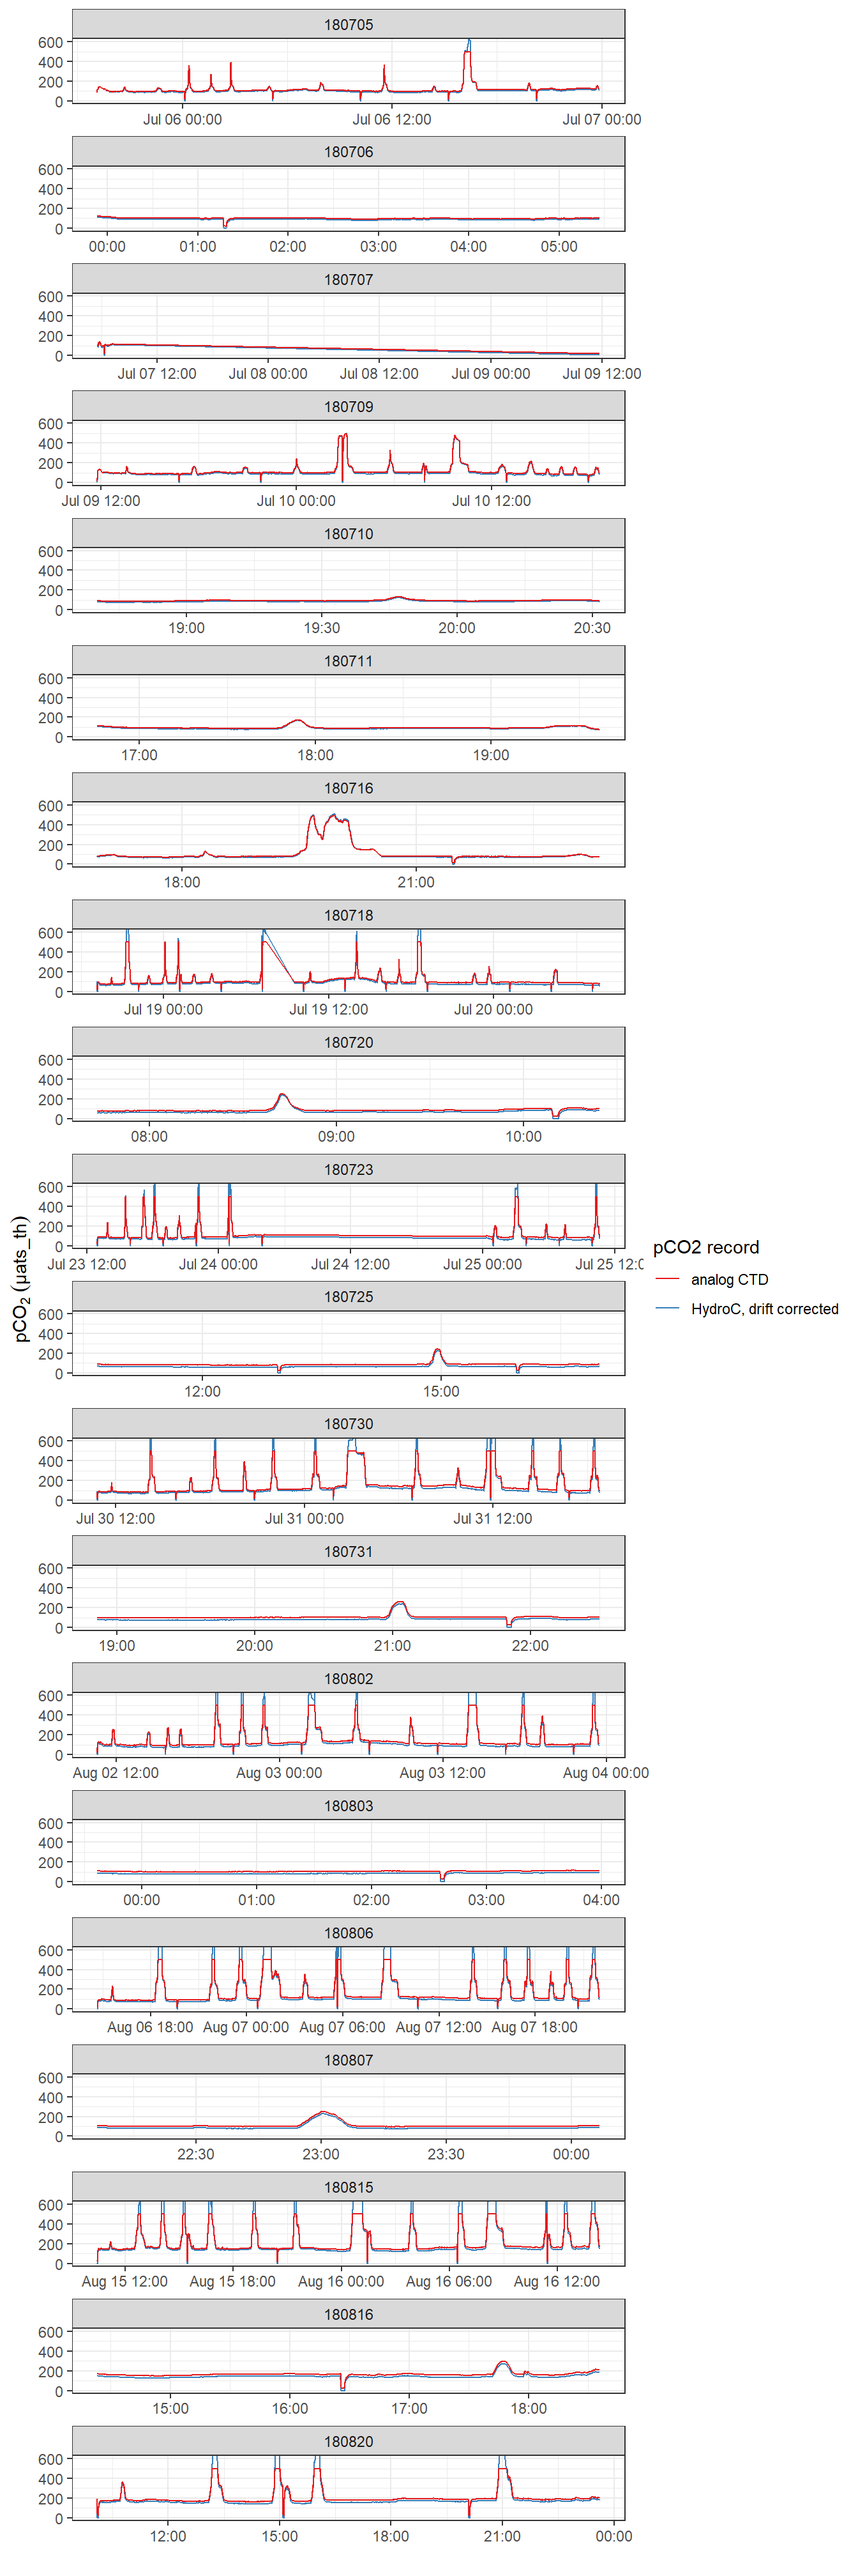
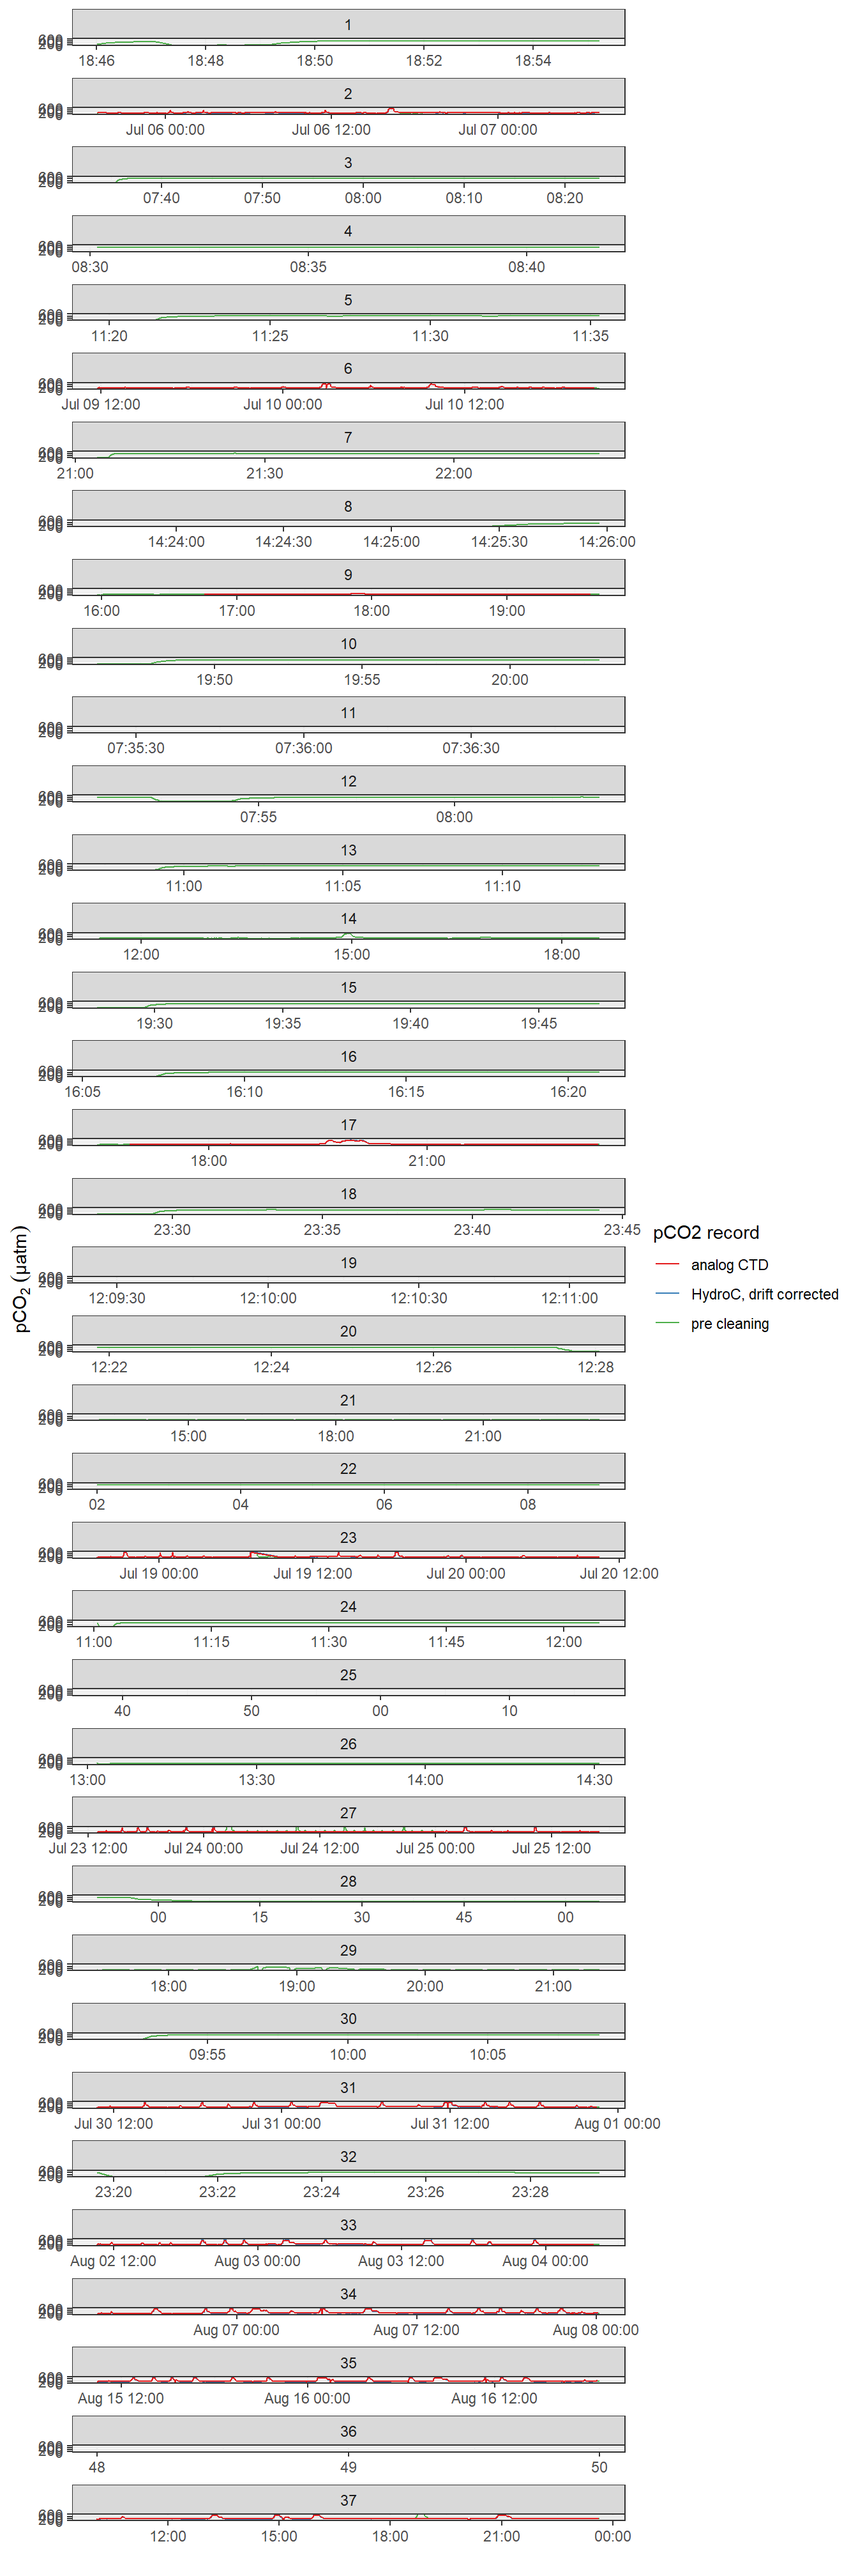
Build site.

diff --git a/docs/merging_interpolation.html b/docs/merging_interpolation.html
@@ -433,7 +433,7 @@ div.tocify {
 
 <h1 class="title toc-ignore">Merging and interpolation of observations</h1>
 <h4 class="author">Jens Daniel Müller</h4>
-<h4 class="date">23 September, 2020</h4>
+<h4 class="date">25 September, 2020</h4>
 
 </div>
 
@@ -458,7 +458,7 @@ div.tocify {
 <div class="tab-content">
 <div id="summary" class="tab-pane fade in active">
 <p>
-<strong>Last updated:</strong> 2020-09-23
+<strong>Last updated:</strong> 2020-09-25
 </p>
 <p>
 <strong>Checks:</strong> <span class="glyphicon glyphicon-ok text-success" aria-hidden="true"></span> 7 <span class="glyphicon glyphicon-exclamation-sign text-danger" aria-hidden="true"></span> 0
@@ -549,16 +549,16 @@ This reproducible <a href="http://rmarkdown.rstudio.com">R Markdown</a> analysis
 <div class="panel panel-default">
 <div class="panel-heading">
 <p class="panel-title">
-<a data-toggle="collapse" data-parent="#workflowr-checks" href="#strongRepositoryversionstrongahrefhttpsgithubcomjensdanielmuellerBloomSailtree7f497e4509336ea5dcb323af87fa128da897d9edtargetblank7f497e4a"> <span class="glyphicon glyphicon-ok text-success" aria-hidden="true"></span> <strong>Repository version:</strong> <a href="https://github.com/jens-daniel-mueller/BloomSail/tree/7f497e4509336ea5dcb323af87fa128da897d9ed" target="_blank">7f497e4</a> </a>
+<a data-toggle="collapse" data-parent="#workflowr-checks" href="#strongRepositoryversionstrongahrefhttpsgithubcomjensdanielmuellerBloomSailtreeabc5bacf54cde8073792bba75eafb3c09a6b801ctargetblankabc5baca"> <span class="glyphicon glyphicon-ok text-success" aria-hidden="true"></span> <strong>Repository version:</strong> <a href="https://github.com/jens-daniel-mueller/BloomSail/tree/abc5bacf54cde8073792bba75eafb3c09a6b801c" target="_blank">abc5bac</a> </a>
 </p>
 </div>
[2 lines of base64/hex data omitted]
 <div class="panel-body">
 <p>
 Great! You are using Git for version control. Tracking code development and connecting the code version to the results is critical for reproducibility.
 </p>
 <p>
-The results in this page were generated with repository version <a href="https://github.com/jens-daniel-mueller/BloomSail/tree/7f497e4509336ea5dcb323af87fa128da897d9ed" target="_blank">7f497e4</a>. See the <em>Past versions</em> tab to see a history of the changes made to the R Markdown and HTML files.
+The results in this page were generated with repository version <a href="https://github.com/jens-daniel-mueller/BloomSail/tree/abc5bacf54cde8073792bba75eafb3c09a6b801c" target="_blank">abc5bac</a>. See the <em>Past versions</em> tab to see a history of the changes made to the R Markdown and HTML files.
 </p>
 <p>
 Note that you need to be careful to ensure that all relevant files for the analysis have been committed to Git prior to generating the results (you can use <code>wflow_publish</code> or <code>wflow_git_commit</code>). workflowr only checks the R Markdown file, but you know if there are other scripts or data files that it depends on. Below is the status of the Git repository when the results were generated:
@@ -575,12 +575,12 @@ Ignored files:
     Ignored:    data/_merged_data_files/
     Ignored:    data/_summarized_data_files/
     Ignored:    data/backup/
+    Ignored:    output/Plots/Figures_publication/.tmp.drivedownload/
 
 Untracked files:
     Untracked:  code/Vertical entrainment flux I.pdf
     Untracked:  code/Vertical entrainment flux II.pdf
     Untracked:  code/Vertical entrainment flux III.pdf
-    Untracked:  output/Plots/Figures_publication/.tmp.drivedownload/
     Untracked:  output/Plots/Figures_publication/Appendix/Phytoplankton_mean_total_biomass.png
     Untracked:  output/Plots/Figures_publication/Appendix/TPD_CPD_cumulative.png
     Untracked:  output/Plots/Figures_publication/Appendix/pCO2_RT_corrected_profile_example.png
@@ -596,9 +596,12 @@ Untracked files:
     Untracked:  output/Plots/Figures_publication/Article/station_map.png
 
 Unstaged changes:
+    Modified:   analysis/read-in.Rmd
     Modified:   output/Plots/CT_dynamics/tm_profiles_ID_pCO2_tem_sal_CT.pdf
     Modified:   output/Plots/Figures_publication/Appendix/Phytoplankton_mean_total_biomass.pdf
     Modified:   output/Plots/Figures_publication/Appendix/TPD_CPD_cumulative.pdf
+    Modified:   output/Plots/Figures_publication/Appendix/pCO2_RT_corrected_profile_example.pdf
+    Modified:   output/Plots/Figures_publication/Appendix/pCO2_RT_corrected_profile_mean_abs_offset.pdf
     Modified:   output/Plots/Figures_publication/Appendix/tau_fit_example.pdf
     Modified:   output/Plots/Figures_publication/Appendix/tb_profiles.pdf
     Modified:   output/Plots/Figures_publication/Article/Hov_abs_profiles_cum.pdf
@@ -608,6 +611,7 @@ Unstaged changes:
     Modified:   output/Plots/Figures_publication/Article/reconstruction_NCP_timeseries.pdf
     Modified:   output/Plots/Figures_publication/Article/reconstruction_iCT_timeseries.pdf
     Modified:   output/Plots/Figures_publication/Article/station_map.pdf
+    Modified:   output/Plots/merging_interpolation/Zero_time_synchronization.pdf
 
 </code></pre>
 <p>
@@ -646,6 +650,40 @@ Message
 </tr>
 </thead>
 <tbody>
+<tr>
+<td>
+Rmd
+</td>
+<td>
+<a href="https://github.com/jens-daniel-mueller/BloomSail/blob/abc5bacf54cde8073792bba75eafb3c09a6b801c/analysis/merging_interpolation.Rmd" target="_blank">abc5bac</a>
+</td>
+<td>
+jens-daniel-mueller
+</td>
+<td>
+2020-09-25
+</td>
+<td>
+comparison of pCO2 data included
+</td>
+</tr>
+<tr>
+<td>
+html
+</td>
+<td>
+<a href="https://rawcdn.githack.com/jens-daniel-mueller/BloomSail/904f0f7018fb3a343a6b8315520625c8d1c05951/docs/merging_interpolation.html" target="_blank">904f0f7</a>
+</td>
+<td>
+jens-daniel-mueller
+</td>
+<td>
+2020-09-23
+</td>
+<td>
+Build site.
+</td>
+</tr>
 <tr>
 <td>
 Rmd
@@ -1923,11 +1961,14 @@ th_new_withoutAW &lt;-
                           &quot;pCO2_corr&quot;, &quot;Runtime&quot;, &quot;nr.ave&quot;)) %&gt;% 
   mutate(date_time = dmy_hms(date_time),
          Flush = as.factor(as.character(Flush)),
-         Zero = as.factor(as.character(Zero)))</code></pre>
-</div>
-<div id="absolute-values" class="section level3">
-<h3><span class="header-section-number">1.4.2</span> Absolute values</h3>
-<pre class="r"><code>ts_th &lt;- read_csv(here::here(&quot;data/_merged_data_files/merging_interpolation&quot;,
+         Zero = as.factor(as.character(Zero)))
+
+th_all_data &lt;- read_csv(here::here(&quot;Data/_summarized_data_files&quot;,
+                          &quot;th_all_data.csv&quot;))
+
+
+
+ts_th &lt;- read_csv(here::here(&quot;data/_merged_data_files/merging_interpolation&quot;,
                           &quot;ts_th.csv&quot;),
                col_types = cols(ID = col_character(),
                                 pCO2_analog = col_double(),
@@ -1937,24 +1978,29 @@ th_new_withoutAW &lt;-
                                 Zero_counter = col_integer(),
                                 deployment = col_integer(),
                                 duration = col_double(),
-                                mixing = col_character()))
-
-
-ts_th %&gt;% 
-  filter(!is.na(pCO2_corr)) %&gt;% 
-  ggplot()+
-  geom_path(aes(date_time, pCO2_corr, col = &quot;HydroC, drift corrected&quot;))+
-  geom_path(aes(date_time, pCO2_analog, col = &quot;analog CTD&quot;))+
+                                mixing = col_character()))</code></pre>
+</div>
+<div id="comparison-of-preliminary-pco2-data" class="section level3">
+<h3><span class="header-section-number">1.4.2</span> Comparison of preliminary pCO2 data</h3>
+<div id="analog-vs-internal" class="section level4">
+<h4><span class="header-section-number">1.4.2.1</span> Analog vs internal</h4>
+<pre class="r"><code>ggplot()+
+  geom_path(data = th_all_data, aes(date_time, pCO2_corr, col = &quot;pre cleaning&quot;))+
+  geom_path(data = ts_th, aes(date_time, pCO2_corr, col = &quot;HydroC, drift corrected&quot;))+
+  geom_path(data = ts_th, aes(date_time, pCO2_analog, col = &quot;analog CTD&quot;))+
   scale_color_brewer(palette = &quot;Set1&quot;, name = &quot;pCO2 record&quot;)+
   coord_cartesian(ylim = c(0,600))+
-  labs(y=expression(pCO[2]~(µats_th)), x=&quot;&quot;)+
-  facet_wrap(~ID, scales = &quot;free_x&quot;, ncol = 1)</code></pre>
+  labs(y=expression(pCO[2]~(µatm)), x=&quot;&quot;)+
+  facet_wrap(~deployment, scales = &quot;free_x&quot;, ncol = 1)</code></pre>
 <div class="figure" style="text-align: center">
-<img src="figure/merging_interpolation.Rmd/pCO2_time_series-1.png" alt="pCO~2~ record after interpolation to HydroC timestamp (analog output from HydroC and drift corrected data provided by Contos). ID refers to the starting date of each cruise. Please note that pCO2_analog measurement range is technically restricted to 100-500  µats_th. Zeroing periods are included." width="672" />
+<img src="figure/merging_interpolation.Rmd/pCO2_time_series-1.png" alt="pCO~2~ record after interpolation to HydroC timestamp (analog output from HydroC and drift corrected data provided by Contos). ID refers to the starting date of each cruise. Please note that pCO2_analog measurement range is technically restricted to 100-500  µatm. Zeroing periods are included." width="672" />
 <p class="caption">
-pCO<sub>2</sub> record after interpolation to HydroC timestamp (analog output from HydroC and drift corrected data provided by Contos). ID refers to the starting date of each cruise. Please note that pCO2_analog measurement range is technically restricted to 100-500 µats_th. Zeroing periods are included.
+pCO<sub>2</sub> record after interpolation to HydroC timestamp (analog output from HydroC and drift corrected data provided by Contos). ID refers to the starting date of each cruise. Please note that pCO2_analog measurement range is technically restricted to 100-500 µatm. Zeroing periods are included.
 </p>
 </div>
+</div>
+<div id="raw-vs-clean" class="section level4">
+<h4><span class="header-section-number">1.4.2.2</span> Raw vs clean</h4>
 <pre class="r"><code>th_comparison &lt;- full_join(
   ts_th %&gt;% select(date_time, ID, pCO2_corr),
   th_new_withAW %&gt;% select(date_time, pCO2_corr) %&gt;% rename(pCO2_withAW = pCO2_corr)
@@ -1967,7 +2013,6 @@ th_comparison &lt;- full_join(
 
 
 th_comparison %&gt;% 
-  filter(!is.na(pCO2_corr)) %&gt;% 
   ggplot() +
   geom_path(aes(date_time, pCO2_corr, col = &quot;HydroC, drift corrected&quot;))+
   geom_path(aes(date_time, pCO2_withAW, col = &quot;withAW&quot;))+
@@ -1977,14 +2022,16 @@ th_comparison %&gt;%
   labs(y=expression(pCO[2]~(µatm)), x=&quot;&quot;)+
   facet_wrap(~ID, scales = &quot;free_x&quot;, ncol = 1)</code></pre>
 <p><img src="figure/merging_interpolation.Rmd/compare_processed_hc_files-1.png" width="672" style="display: block; margin: auto;" /></p>
+</div>
+<div id="water-vapor-correction" class="section level4">
+<h4><span class="header-section-number">1.4.2.3</span> Water vapor correction</h4>
 <pre class="r"><code>th_comparison %&gt;% 
-  filter(!is.na(pCO2_corr)) %&gt;% 
   ggplot() +
   geom_path(aes(date_time, pCO2_corr-pCO2_withAW, col = &quot;orig - with AW&quot;))+
   scale_color_brewer(palette = &quot;Set1&quot;, name = &quot;pCO2 record&quot;)+
   labs(y=expression(pCO[2]~(µatm)), x=&quot;&quot;)+
   facet_wrap(~ID, scales = &quot;free_x&quot;, ncol = 1)</code></pre>
-<p><img src="figure/merging_interpolation.Rmd/compare_processed_hc_files-2.png" width="672" style="display: block; margin: auto;" /></p>
+<p><img src="figure/merging_interpolation.Rmd/water_vapor_correction-1.png" width="672" style="display: block; margin: auto;" /></p>
 <pre class="r"><code>th_comparison %&gt;% 
   filter(!is.na(pCO2_corr)) %&gt;% 
   ggplot() +
@@ -1992,7 +2039,8 @@ th_comparison %&gt;%
   scale_color_brewer(palette = &quot;Set1&quot;, name = &quot;pCO2 record&quot;)+
   labs(y=expression(pCO[2]~(µatm)), x=&quot;&quot;)+
   facet_wrap(~ID, scales = &quot;free_x&quot;, ncol = 1)</code></pre>
-<p><img src="figure/merging_interpolation.Rmd/compare_processed_hc_files-3.png" width="672" style="display: block; margin: auto;" /></p>
+<p><img src="figure/merging_interpolation.Rmd/water_vapor_correction_offset-1.png" width="672" style="display: block; margin: auto;" /></p>
+</div>
 </div>
 <div id="replace-pco2-data" class="section level3">
 <h3><span class="header-section-number">1.4.3</span> replace pCO2 data</h3>
